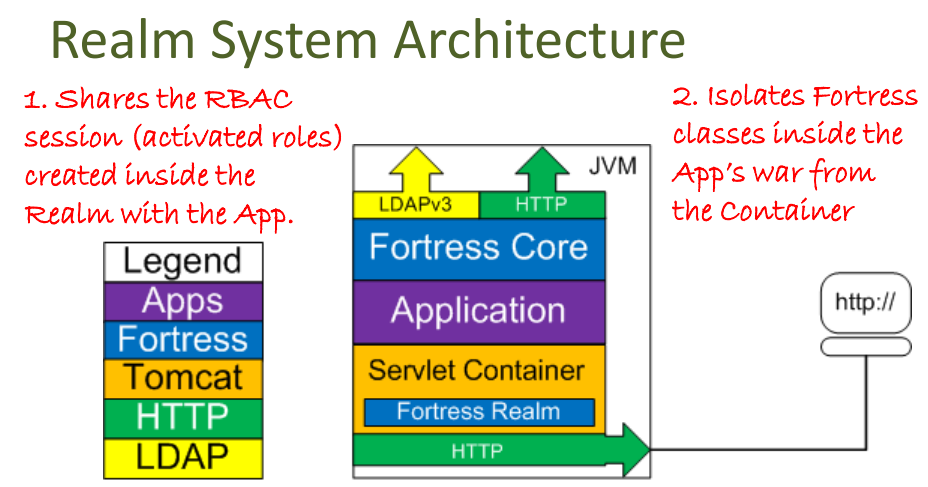
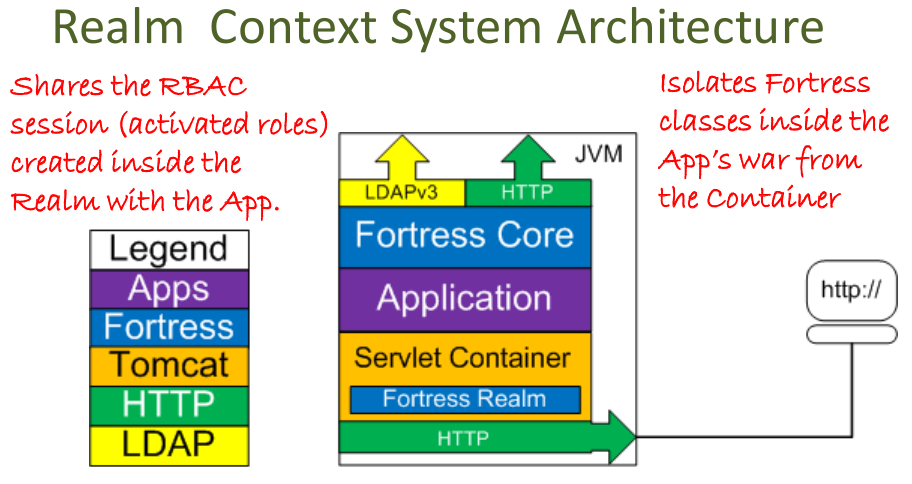
improve

diff --git a/REALM-CONTEXT-SETUP.md b/REALM-CONTEXT-SETUP.md
@@ -17,8 +17,8 @@
 
 # README for Apache Fortress Realm Context Setup
  * Version 1.0-RC41
- * Apache Fortress Realm System Architecture Diagram
- ![Apache Fortress Realm System Architecture](images/fortress-realm-system-arch.png "Apache Fortress Realm System Architecture")
+ * Apache Fortress Realm Context System Architecture Diagram
+ ![Apache Fortress Realm Context System Architecture](images/fortress-realm-system-arch.png "Apache Fortress Realm Context System Architecture")
 
 -------------------------------------------------------------------------------
 ## Table of Contents
@@ -28,11 +28,11 @@
  * SECTION 1. Prerequisites.
  * SECTION 2. Prepare Machine.
  * SECTION 3. Enable Tomcat Realm for Web context.
-
+ * More on the Realm Proxy
 ___________________________________________________________________________________
 ## Document Overview
 
-This document contains instructions to enable Apache Fortress Realm for a single Web context under Apache Tomcat.  To target enablement for all apps running under the container, checkout: [REALM-HOST-SETUP](./REALM-HOST-SETUP.md).
+This document contains instructions to enable Apache Fortress Realm for a single Web app context running under Apache Tomcat.  To enable for all apps running under the Tomcat server, checkout: [REALM-HOST-SETUP](./REALM-HOST-SETUP.md).
 
 ___________________________________________________________________________________
 ##  Tips for first-time users
@@ -125,9 +125,9 @@ Everything else covered in steps that follow.  Tested on Debian, Centos & Window
   ...
  ```
 
- * Note:  Fortress Realm follows standard Java EE security semantics.  The above is a very simple example. For more info on how Java EE security is used: http://docs.oracle.com/javaee/6/tutorial/doc/bnbwj.html
+ *Fortress Realm follows standard Java EE security semantics.*
 
-5. Add the maven dependencies to the Web app.
+4. Add the maven dependencies to the Web app.
 
  ```
  <dependency>
@@ -138,20 +138,63 @@ Everything else covered in steps that follow.  Tested on Debian, Centos & Window
   </dependency>
   ```
 
-6. Add the fortress.properties to the Web app.
+ *Where project.version contains target version, e.g. 1.0-RC41*
 
- *This file contains the coordinates to the LDAP server.*
+5. Add the fortress.properties file to the classpath of the Web app.
 
-7. Redeploy web application to Tomcat.
-
-8. Login to the web application.  Users that successfully authenticate and have activated role(s) listed in auth-constraints have access to all resources matching the url-pattern(s).
-
-9. View the Tomcat server logs to ensure there are no errors.
-
-10. Verify that fortress realm is operating properly by viewing the following in catalina.log:
+ *It contains the coordinates to the target LDAP server.*
 
  ```
+ # This param tells fortress what type of ldap server in use:
+ ldap.server.type=apacheds
+
+ # ldap host name
+ host=localhost
+
+ # if ApacheDS is listening on
+ port=10389
+
+ # If ApacheDS, these credentials are used for read/write to fortress DIT
+ admin.user=uid=admin,ou=system
+ admin.pw=secret
+
+ # This is min/max settings for admin pool connections:
+ min.admin.conn=1
+ max.admin.conn=10
+
+ # This node contains more fortress properties stored on behalf of connecting LDAP clients:
+ config.realm=DEFAULT
+ config.root=ou=Config,dc=example,dc=com
+
+ # Used by application security components:
+ perms.cached=true
+
+ # Fortress uses a cache:
+ ehcache.config.file=ehcache.xml
+
+ # Default for pool reconnect flag is false:
+ enable.pool.reconnect=true
+ ```
+
+6. Redeploy web application to Tomcat.
+
+7. Login to the web application.  Users that successfully authenticate and have activated role(s) listed in auth-constraints have access to all resources matching the url-pattern(s).
+
+8. Verify that fortress realm is operating properly by viewing the Tomcat server log:
+
+ ```
+ tail -f -n10000 TOMCAT_HOME/logs/catalina.out
+ ...
  org.apache.directory.fortress.realm.tomcat.Tc7AccessMgrProxy J2EE Tomcat7 policy agent initialization successful
+ ...
  ```
+
+9. You have enabled security for a single Web app running in Tomcat.  This will enforce declarative authentication and coarse-gained authorization (isUserInRole) checks.  For a look at how to apply more, check out [Apache Fortress Demo End-to-End Security Example](https://github.com/shawnmckinney/apache-fortress-demo).
+
+*These instructions depend on understanding of Java EE security, Apache Fortress & Tomcat semantics.  For more info on how these work, checkout the section on tips for first-time users.*
+
+## More on the Realm Proxy
+The fortress realm proxy jar contains a *shim* that uses a URLClassLoader to reach its implementation libs. It prevents the realm impl libs, pulled in as dependency to your web app, from interfering with Tomcat's system classpath thus providing an error free deployment process w/out classloader issues. The realm proxy offers the flexibility for each web app to determine its own version/type of security realm to use, satisfying a variety of requirements related to web hosting and multitenancy.
+
 ___________________________________________________________________________________
 #### END OF README-CONTEXT-SETUP.md

diff --git a/REALM-HOST-SETUP.md b/REALM-HOST-SETUP.md
@@ -17,6 +17,9 @@
 
 # README for Apache Fortress Realm Host Setup
  * Version 1.0-RC41
+ * Apache Fortress Realm Host System Architecture Diagram
+ ![Apache Fortress Realm Host System Architecture](images/fortress-realm-host-system-arch.png "Apache Fortress Realm Host System Architecture")
+
 
 -------------------------------------------------------------------------------
 ## Table of Contents
@@ -26,8 +29,10 @@
  * SECTION 1. Prerequisites.
  * SECTION 2. Prepare Machine.
  * SECTION 3. Enable Tomcat Realm for Host.
- * SECTION 4. Test with Tomcat Manager App (Optional).
- * SECTION 5. Common troubleshooting tips.
+ * SECTION 4. Enable Web Application to use Apache Fortress Realm
+ * SECTION 5. Test with Tomcat Manager App (Optional).
+ * SECTION 6. Common troubleshooting tips.
+ * More on the Realm Proxy
 
 ___________________________________________________________________________________
 ## Document Overview
@@ -117,7 +122,60 @@ ________________________________________________________________________________
  ```
 
 _________________________________________________________________________________
-## SECTION 4. Test with Tomcat Manager App (Optional)
+## SECTION 4. Enable Web Application to use Apache Fortress Realm
+
+1. Add security constraints to target web.xml:
+ ```
+  ...
+  <security-constraint>
+      <display-name>Commander Security Constraint</display-name>
+      <web-resource-collection>
+          <web-resource-name>Protected Area</web-resource-name>
+          <!-- Define the context-relative URL(s) to be protected -->
+          <url-pattern>/*</url-pattern>
+      </web-resource-collection>
+      <auth-constraint>
+          <!-- Anyone with one of the listed roles may access this area -->
+          <role-name>MY_ROLE_NAME</role-name>
+          ...
+      </auth-constraint>
+  </security-constraint>
+
+  <!-- Example of HTTP Basic Authentication Setup. -->
+  <login-config>
+      <auth-method>BASIC</auth-method>
+      <realm-name>FortressSecurityRealm</realm-name>
+  </login-config>
+
+  <!-- Security roles referenced by this web application -->
+  <security-role>
+      <role-name>MY_ROLE_NAME</role-name>
+  </security-role>
+  ...
+ ```
+
+ *Fortress Realm follows standard Java EE security semantics.*
+
+2. Redeploy web application to Tomcat.
+
+3. Login to the web application.  Users that successfully authenticate and have activated role(s) listed in auth-constraints have access to all resources matching the url-pattern(s).
+
+4. Verify that fortress realm is operating properly by viewing the Tomcat server log:
+
+ ```
+ tail -f -n10000 TOMCAT_HOME/logs/catalina.out
+ ...
+ org.apache.directory.fortress.realm.tomcat.Tc7AccessMgrProxy J2EE Tomcat7 policy agent initialization successful
+ ...
+ ```
+
+5. You have global security enabled under Tomcat but have enabled for a single Web app only.  This will require declarative authentication and coarse-gained authorization (isUserInRole) checks for that app.
+ You may now repeat these steps for other apps running under the Tomcat server.  For a look at how to apply more stringent security, check out the [Apache Fortress Demo End-to-End Security Example](https://github.com/shawnmckinney/apache-fortress-demo).
+
+*These instructions depend on understanding of Java EE security, Apache Fortress & Tomcat semantics.  For more info on how these work, checkout the section on tips for first-time users.*
+
+_________________________________________________________________________________
+## SECTION 5. Test with Tomcat Manager App (Optional)
 
 This section provides instructions for using the Tomcat Manager application to test Apache Fortress Realm.
 
@@ -146,7 +204,7 @@ This section provides instructions for using the Tomcat Manager application to t
     Verify authentication/authorization success to web app.
 
 _________________________________________________________________________________
-## SECTION 5. Common troubleshooting tips
+## SECTION 6. Common troubleshooting tips
 
 1. Server can't find config files (realmClasspath=**FORTRESS_REALM_HOME**/conf")
 
@@ -232,6 +290,9 @@ ________________________________________________________________________________
  ```
 
  ACTION: Install and use Tomcat version 7 and later in your target machine.
+
+## More on the Realm Proxy
+The fortress realm proxy jar contains a *shim* that uses a URLClassLoader to reach its implementation libs. It prevents the realm impl libs, contained within this package, from interfering with Tomcat's system classpath thus providing an error free deployment process w/out classloader issues. The realm proxy offers the flexibility for each web app to determine its own version/type of security realm to use, satisfying a variety of requirements related to web hosting and multitenancy.
 
 ___________________________________________________________________________________
 #### END OF README-HOST-SETUP.md

diff --git a/README.md b/README.md
@@ -17,8 +17,6 @@
 
 # README for Apache Fortress Realm
  * Version 1.0-RC41
- * Apache Fortress Realm System Architecture Diagram
- ![Apache Fortress Realm System Architecture](images/fortress-realm-system-arch.png "Apache Fortress Realm System Architecture")
 
 -------------------------------------------------------------------------------
 ## Table of Contents
@@ -27,7 +25,7 @@
  * Tips for first-time users.
  * SECTION 1. Prerequisites.
  * SECTION 2. Download & Build.
- * SECTION 3. Instructions to use Fortress Realm.
+ * SECTION 3. Instructions to Use
 
 ___________________________________________________________________________________
 ## Document Overview
@@ -88,11 +86,23 @@ Everything else covered in steps that follow.  Tested on Debian, Centos & Window
 3. View the generated document here: [./target/site/apidocs/overview-summary.html](./target/site/apidocs/overview-summary.html).
 
 -------------------------------------------------------------------------------
-## SECTION 3. Instructions to use Fortress Realm
+## SECTION 3. Instructions to Use
 
-1. For a single web application context under Tomcat: [REALM-CONTEXT-SETUP](./REALM-CONTEXT-SETUP.md).
+There are two ways in which to use the Apache Fortress Realm.  The first, pulls extra dependencies into the Web app.  The second, externalizes the dependencies away from the Web app into a separate folder.
 
-2. For all web application contexts under Tomcat: [REALM-HOST-SETUP](./REALM-HOST-SETUP.md).
+### Option 1. For Single Web Context
+ *enable Java EE security for a single web app running under Tomcat*
+ * Follow these instructions: [REALM-CONTEXT-SETUP](./REALM-CONTEXT-SETUP.md).
+
+ ![Apache Fortress Realm System Architecture](images/fortress-realm-system-arch.png "Apache Fortress Realm System Architecture")
+
+-------------------------------------------------------------------------------
+
+### Option 2. For Global Security
+ *enable Java EE security for all web apps running under Tomcat*
+ * Follow these instructions: [REALM-HOST-SETUP](./REALM-HOST-SETUP.md).
+
+  ![Apache Fortress Realm Host System Architecture](images/fortress-realm-host-system-arch.png "Apache Fortress Realm Host System Architecture")
 
 ___________________________________________________________________________________
 #### END OF README
